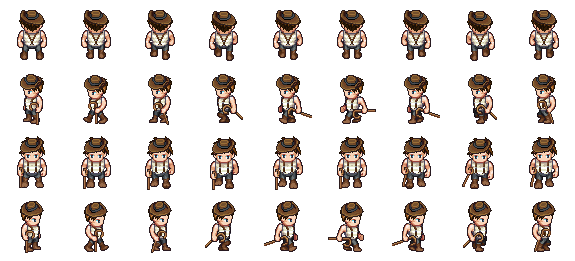
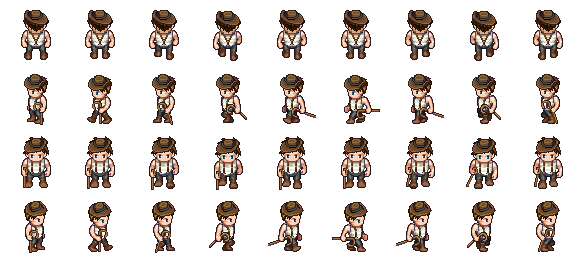
crop de l'image pour que le fermier ne se teleporte pas a cause du mauvais crop de l'image

diff --git a/fermier.c b/fermier.c
@@ -19,14 +19,27 @@ Fermier * init_fermier(Fermier *fermier) {
  */
 Fermier * update_fermier(Fermier *fermier, int x, int y) {
     if (x==0){
-        if(y==1){fermier->y-=VITESSE_FERMIER;}
-        if(y==-1){fermier->y+=VITESSE_FERMIER;}
+        if(y==1){
+            fermier->y-=VITESSE_FERMIER;
+            fermier->direction_sprite=1;
+        }
+        if(y==-1){fermier->y+=VITESSE_FERMIER;
+            fermier->direction_sprite=3;
+        }
     }
     if (y==0){
-        if(x==1){fermier->x-=VITESSE_FERMIER;}
-        if(x==-1){fermier->x+=VITESSE_FERMIER;}
+        if(x==1){fermier->x-=VITESSE_FERMIER;
+            fermier->direction_sprite=4;
+        }
+        if(x==-1){fermier->x+=VITESSE_FERMIER;
+            fermier->direction_sprite=2;
+        }
     }  
-    if(x==0 && y==0) return fermier; 
+    if(x==0 && y==0) {
+        fermier->frame=5;
+        fermier->direction_sprite=0;
+        return fermier; 
+    }
 
     if (fermier->x < 0) fermier->x = 0;
     if (fermier->x + WIDTH_FERMIER > TAILLE_MAP) fermier->x = TAILLE_MAP - WIDTH_FERMIER;

diff --git a/maitre_du_jeu.c b/maitre_du_jeu.c
@@ -147,6 +147,7 @@ monde *mis_à_jour_monde(monde *monde_courant)
         current_goat->y = current_goat->dir_y;
         current_goat->frame = (current_goat->frame + 1) % 4;
     }
+
     monde_courant->fermiers = update_fermier(monde_courant->fermiers, monde_courant->fermiers->x, monde_courant->fermiers->y);
     monde_courant->fermiers->frame = (monde_courant->fermiers->frame + 1) % 9;
     return monde_courant;
@@ -183,7 +184,9 @@ int main(int argc, char **argv)
             if (!en_pause)
             {
                 // déplacement du fermier au cas où l'utilsateur avait appuyé sur une des flèche
+                
                 monde_courrant->fermiers = update_fermier(monde_courrant->fermiers, utilisateur->x_deplacement, utilisateur->y_deplacement);
+            
             }
             afficher_monde(monde_courrant);
             free(utilisateur);

diff --git a/fermier.h b/fermier.h
@@ -3,7 +3,7 @@
 
 #include "utilisateur.h"
 
-#define VITESSE_FERMIER 5.0f
+#define VITESSE_FERMIER 1.0f
 #define WIDTH_FERMIER 50
 #define HEIGHT_FERMIER 30
 #define TAILLE_MAP 1024
@@ -12,7 +12,7 @@ typedef struct {
     float x;
     float y;
     float speed;
-    int frame;
+    int frame; 
     int direction_sprite; // 1 haut, 2 droite, 3 bas, 4,gauche
 } Fermier;
 

diff --git a/affichage.c b/affichage.c
@@ -51,6 +51,7 @@ int gestion_direction_fermier(int direction){
     else if (direction==2) return 3;
     else if (direction==3) return 2;
     else if (direction==4) return 1;
+    else if (direction==0) return 2;
     return -1;
 }
 
